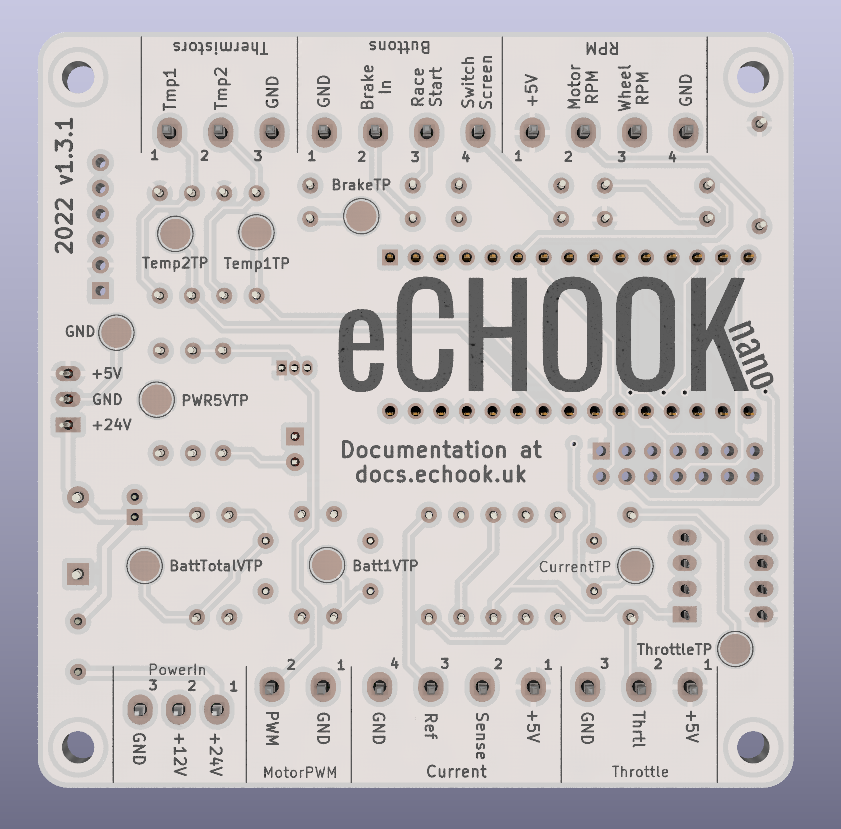
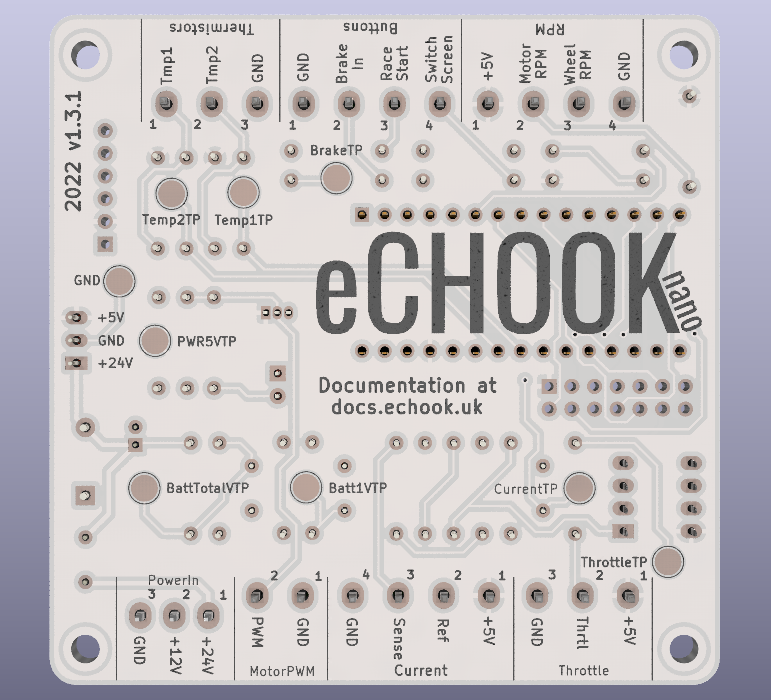
GitBook: [#58] Testing Update

Changed region(s): [[0.0311, 0.03, 0.965, 0.99]]

diff --git a/connecting-the-echook-to-the-car/README.md b/connecting-the-echook-to-the-car/README.md
@@ -11,9 +11,9 @@ The image below shows the external interfaces to the board numbered, with detail
 ![eChook nano v1.3.1 Board Bottom View with connector pinouts](<../.gitbook/assets/image (10).png>)
 
 {% hint style="info" %}
-&#x20;Labelling the connectors on the harness side to make it easier to identify them in future.
+&#x20;Label the connectors on the harness side to make it easier to identify them in future.
 {% endhint %}
 
 ## Connector Pin Out
 
-<table data-header-hidden><thead><tr><th>Connector</th><th data-type="number">Pin</th><th>Signal</th><th>Use</th></tr></thead><tbody><tr><td>Connector</td><td>null</td><td>Signal</td><td>Use</td></tr><tr><td>Power In</td><td>3</td><td>Ground</td><td>Main grounding point for the board.</td></tr><tr><td></td><td>2</td><td>12v</td><td>Monitoring the lower battery voltage. </td></tr><tr><td></td><td>1</td><td>24v</td><td>Power and 24V monitoring</td></tr><tr><td>Motor PWM</td><td>2</td><td>Ground reference</td><td>Ground for PWM line</td></tr><tr><td></td><td>1</td><td>5V PWM Output</td><td>A PWM output. Could control the drive motor, or a fan etc.</td></tr><tr><td>RPM</td><td>4</td><td>Ground reference</td><td>Ground for Hall Effect Sensors</td></tr><tr><td></td><td>3</td><td>Wheel RPM</td><td>Pulsed 5v signal from wheel hall effect sensor</td></tr><tr><td></td><td>2</td><td>Motor RPM </td><td>Pulsed 5v signal from motor hall effect sensor</td></tr><tr><td></td><td>1</td><td>5v Supply</td><td>5V supply for the Hall Effect Sensors</td></tr><tr><td>Therm</td><td>3</td><td>Ground reference</td><td>Ground connection for thermistors</td></tr><tr><td></td><td>2</td><td>Temp 2 - Line to thermistor</td><td>Connection to thermistor 2. Thermistor connects between here and ground</td></tr><tr><td></td><td>1</td><td>Temp 1 - Line to thermistor</td><td>Connection to thermistor 1. Thermistor connects between here and ground</td></tr><tr><td>Throttle</td><td>3</td><td>Ground reference</td><td>Ground reference for throttle</td></tr><tr><td></td><td>2</td><td>0-5v throttle input</td><td>Analogue input for a variable throttle, or digital for a push button.</td></tr><tr><td></td><td>1</td><td>5v Supply</td><td>5v supply for the throttle</td></tr><tr><td>Ext Buttons</td><td>4</td><td>Button 2 Active LOW digital Input</td><td>Input for 'Switch Screen' button.</td></tr><tr><td></td><td>3</td><td>Button 1 Active LOW digital Input</td><td>Input for 'Race Start' button needed for lap counting</td></tr><tr><td></td><td>2</td><td>Brake Switch</td><td>Brake input for logging brake use</td></tr><tr><td></td><td>1</td><td>Ground reference</td><td>Ground reference for buttons</td></tr><tr><td>Current</td><td>4</td><td>Ground reference</td><td>Ground reference for current sensor</td></tr><tr><td></td><td>3</td><td>Current Sensing Analogue input</td><td>Input from Current Sense pin</td></tr><tr><td></td><td>2</td><td>Current Reference Analogue input</td><td>Input from current sensor reference pin</td></tr><tr><td></td><td>1</td><td>5v Supply</td><td>5V to current sensor</td></tr></tbody></table>
+<table data-header-hidden><thead><tr><th>Connector</th><th data-type="number">Pin</th><th>Signal</th><th>Use</th></tr></thead><tbody><tr><td>Connector</td><td>null</td><td>Signal</td><td>Use</td></tr><tr><td>Power In</td><td>1</td><td>24v</td><td>Power and 24V monitoring</td></tr><tr><td></td><td>2</td><td>12v</td><td>Monitoring the lower battery voltage. </td></tr><tr><td></td><td>3</td><td>Ground</td><td>Main grounding point for the board.</td></tr><tr><td>Motor PWM</td><td>1</td><td>5V PWM Output</td><td>A PWM output. Could control the drive motor, or a fan etc.</td></tr><tr><td></td><td>2</td><td>Ground reference</td><td>Ground for PWM line</td></tr><tr><td>Therm</td><td>1</td><td>5v Supply</td><td>5V supply for the Hall Effect Sensors</td></tr><tr><td></td><td>2</td><td>Motor RPM </td><td>Pulsed 5v signal from motor hall effect sensor</td></tr><tr><td></td><td>3</td><td>Wheel RPM</td><td>Pulsed 5v signal from wheel hall effect sensor</td></tr><tr><td></td><td>4</td><td>Ground reference</td><td>Ground for Hall Effect Sensors</td></tr><tr><td>Therm</td><td>1</td><td>Temp 1 - Line to thermistor</td><td>Connection to thermistor 1. Thermistor connects between here and ground</td></tr><tr><td></td><td>2</td><td>Temp 2 - Line to thermistor</td><td>Connection to thermistor 2. Thermistor connects between here and ground</td></tr><tr><td></td><td>3</td><td>Ground reference</td><td>Ground connection for thermistors</td></tr><tr><td>Throttle</td><td>1</td><td>5v Supply</td><td>5v supply for the throttle</td></tr><tr><td></td><td>2</td><td>0-5v throttle input</td><td>Analogue input for a variable throttle, or digital for a push button.</td></tr><tr><td></td><td>3</td><td>Ground reference</td><td>Ground reference for throttle</td></tr><tr><td>Ext Buttons</td><td>1</td><td>Ground reference</td><td>Ground reference for buttons</td></tr><tr><td></td><td>2</td><td>Brake Switch</td><td>Brake input for logging brake use</td></tr><tr><td></td><td>3</td><td>Button 1 Active LOW digital Input</td><td>Input for 'Race Start' button needed for lap counting</td></tr><tr><td></td><td>4</td><td>Button 2 Active LOW digital Input</td><td>Input for 'Switch Screen' button.</td></tr><tr><td>Current</td><td>1</td><td>5v Supply</td><td>5V to current sensor</td></tr><tr><td></td><td>2</td><td>Current Reference Analogue input</td><td>Input from current sensor reference pin</td></tr><tr><td></td><td>3</td><td>Current Sensing Analogue input</td><td>Input from Current Sense pin</td></tr><tr><td></td><td>4</td><td>Ground reference</td><td>Ground reference for current sensor</td></tr></tbody></table>

diff --git a/build-instructions/first-power-on.md b/build-instructions/first-power-on.md
@@ -4,9 +4,33 @@
 
 The Arduino, Bluetooth Module and Op-Amp have not been connected yet as these are the components most susceptible to being damaged by an error with the board. Before plugging in these final components or powering up the board it is sensible to carry out some simple checks.
 
-First, visually inspect the soldering, looking for any areas where the solder has bridged connections, creating short circuits, especially on the closer op-amp, Arduino and Bluetooth pins. If any shorts are found, fix them. A small magnifying glass can be useful for identifying issues here.
+#### Visual Inspection
 
-Use a Multimeter to check for a short circuit between ground and power. There is a labelled test point on the bottom of the PCB for ground and 5v, for 24v use the labelled pin on the voltage regulator. Test that there is no connection between 24v, 12v, 5v and GND using the continuity test function \(beeper\) on the multimeter. If any of these tests show a short circuit this _must_ found and fixed before going any further.
+Visually inspect the soldering, looking for any areas where the solder has bridged connections, creating short circuits, especially on the closer op-amp, Arduino and Bluetooth pins. If any shorts are found, fix them. A small magnifying glass can be useful for identifying issues here.
+
+#### Test Points / Multimeter Inspection
+
+On the back of the PCB there are multiple 3mm silver circles, each with a label ending in 'TP'. These are test points, designed to give easy multimeter access for testing the board.
+
+Test points:
+
+| Label        | Signal                                                                              |
+| ------------ | ----------------------------------------------------------------------------------- |
+| GND          | Ground                                                                              |
+| PWR5VTP      | +5v Power                                                                           |
+| BattTotalVTP | 24V battery signal after potential divider circuit (0-5v)                           |
+| Batt1VTP     | 12V battery signal after potential divider circuit (0-5V)                           |
+| ThrottleTP   | Input voltage from the throttle (0-5v)                                              |
+| CurrentTP    | Output from current differential amplifier circuit / Current signal into to Arduino |
+| Temp1TP      | Temperature 1 input to the Arduino                                                  |
+| Temp2TP      | Temperature 2 input to the Arduino                                                  |
+| BrakeTP      | Signal in from Brake switch                                                         |
+
+To see exactly where these test points are in the circuit, take a look at the [circuit-schematics](../circuit-schematics/ "mention").
+
+The multimeter tests checks that there are no short circuits on the board. Place the multimeter into continuity mode (aka beep mode) and check that there is no continuity between any of the pads. The most important checks are that no other test point has continuity to the ground test point, and that no other test point has continuity to the 5V test point. There should also be no continuity between any of the other test points.
+
+
 
 ## First Power On
 
@@ -20,11 +44,10 @@ Once connected, assuming the current limiter hasn’t been hit, use the multimet
 
 Once you have completed the above checks, plug in the Arduino, Bluetooth module and op-amp.
 
-* The arduino plugs in with the USB connection to the outside edge of the PCB. 
+* The Arduino plugs in with the USB connection to the outside edge of the PCB.&#x20;
 * The op-amp has a dot on one corner, this goes with the notched end of the 8-pin socket.
 * The Bluetooth module can connect directly to the 6-pin header on the PCB, or through the included 6 way jumper cable. Ensure that it is plugged in the right way round using the silkscreen labels on the PCB and bluetooth module.
 
 Power up and you should get some flashing LEDs on the Arduino and the BT module. This is now a complete, but unprogrammed eChook nano board.
 
 If you want to proceed with fitting the sensors to the car and wiring it all up before programming the Arduino, jump ahead to '[Connecting the eChook to the Car](../connecting-the-echook-to-the-car/)'.
-
